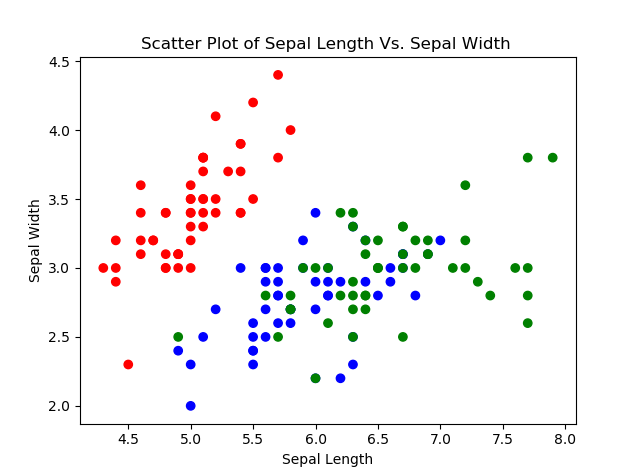
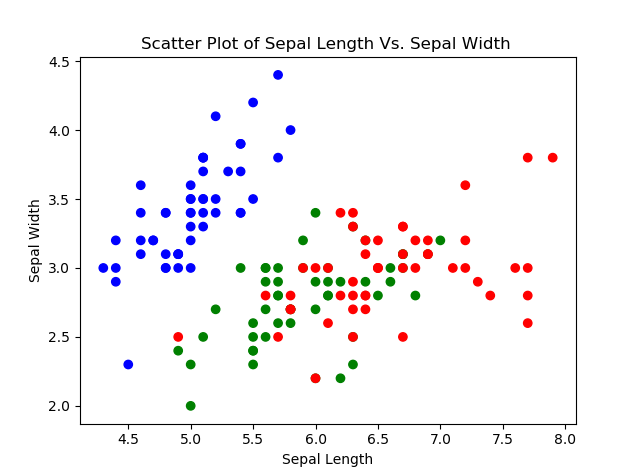
Changed color of species in scatter plot to match colours in matrix plot

diff --git a/scatterplot.py b/scatterplot.py
@@ -1,9 +1,5 @@
 # David O'Brien 2018-04-17
 
-#import the matplotlib package
-
-import matplotlib.pyplot as pl
-
 #import the numpy package
 
 import numpy
@@ -51,7 +47,7 @@ pl.show()   # This shows the scatter last plot created
 
 # setting colors for each flower type
 
-color = { 'Iris-setosa':'red', 'Iris-versicolor':'blue', 'Iris-virginica':'green'}
+color = { 'Iris-setosa':'blue', 'Iris-versicolor':'green', 'Iris-virginica':'red'}
 
 # create scatter plot of sepal length vs sepal width for all specie types showing the specie types in different colours
 
@@ -61,10 +57,10 @@ pl.xlabel('Sepal Length') # Went to the following link to find the '.xlabel' par
 pl.ylabel('Sepal Width')  # Went to the following link to find the '.ylabel' parameter to create a title for the scatter plot dhttps://matplotlib.org/api/pyplot_api.html
 pl.show()   # This shows the scatter last plot created
 
+# create scatter plot of petal length vs petal width for all specie types showing the specie types in different colours
+
 pl.scatter(petallength, petalwidth, color=[ color[i] for i in species ] )    # Found code at this link that helped created colour the data points per species: https://stackoverflow.com/questions/27318906/python-scatter-plot-with-colors-corresponding-to-strings
 pl.title('Scatter Plot of Petal Length Vs. Petal Width ')      # Went to the following link to find the '.title' parameter to create a title for the scatter plot dhttps://matplotlib.org/api/pyplot_api.html
 pl.xlabel('Petal Length') # Went to the following link to find the '.xlabel' parameter to create a title for the scatter plot dhttps://matplotlib.org/api/pyplot_api.html
-pl.ylabel('Petal Width')  # Went to the following link to find the '.ylabel' parameter to create a title for the scatter plot dhttps://matplotlib.org/api/pyplot_api.html
+pl.ylabel('Sepal Width')  # Went to the following link to find the '.ylabel' parameter to create a title for the scatter plot dhttps://matplotlib.org/api/pyplot_api.html
 pl.show()   # This shows the scatter last plot created
-
-
